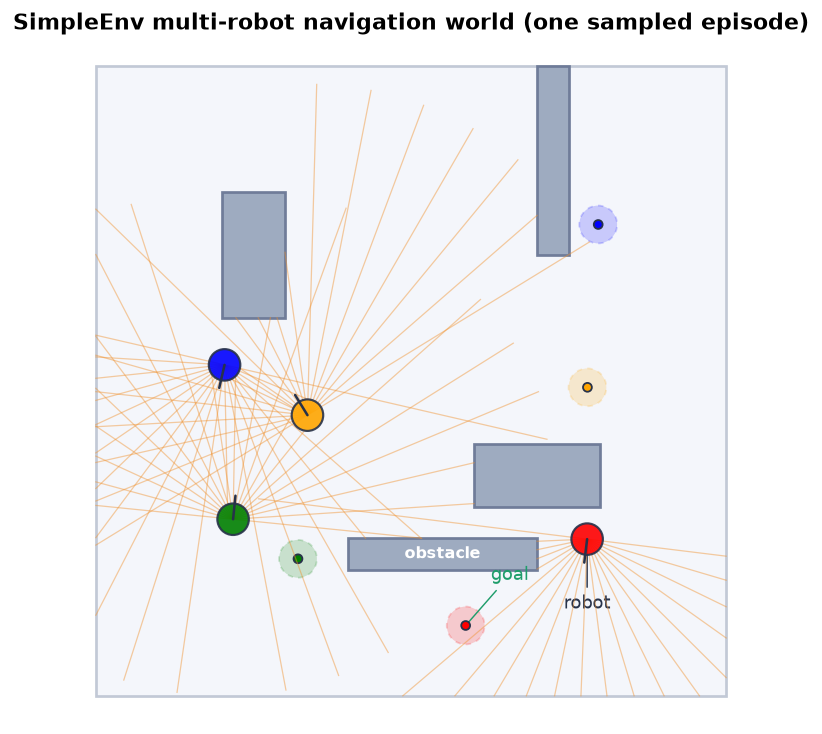
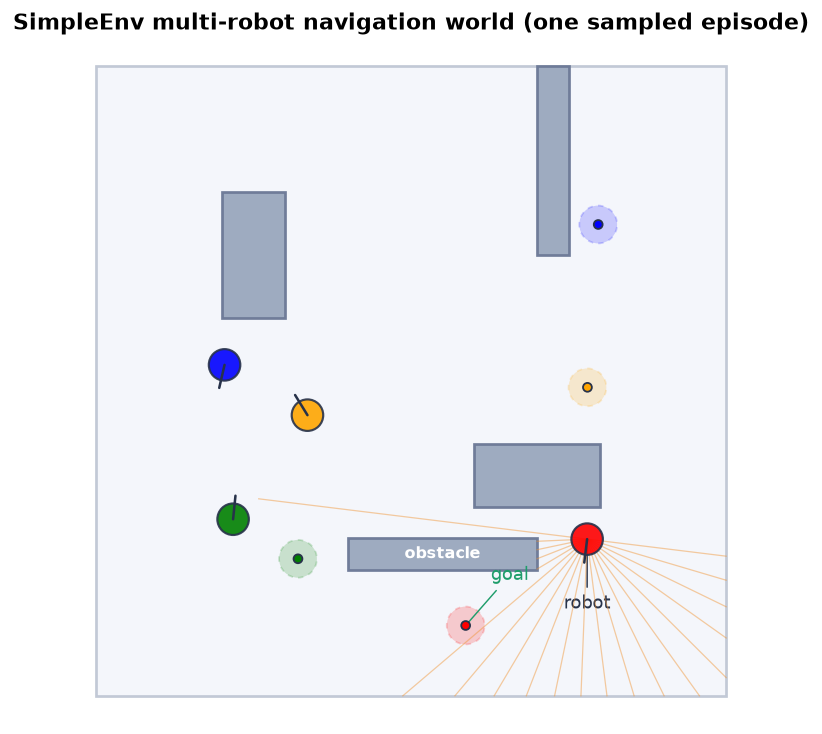
chore: draw the lidar fan for one robot only in figures and the GIF (#8)
With every robot fanned the scenes read as orange noise; one exemplar fan
(robot 0 — the one the environment figure labels) shows the sensor without
burying the trajectories. render_env and make_gif now match the live
animator, captions in README/main.tex updated, figures and demo.gif
regenerated (GIF also halves to 1.6 MB).

diff --git a/report/main.tex b/report/main.tex
@@ -171,10 +171,11 @@ explicit communication channel.
   \centering
   \includegraphics[width=0.8\linewidth]{environment.pdf}
   \caption{The \emph{SimpleEnv} world (one sampled episode, four active
-  robots). Each robot (coloured disc with a heading tick) casts a
-  $20$-beam lidar fan (orange) that terminates at the nearest obstacle,
-  wall or other robot; the matching-coloured dot with a dashed halo is
-  that robot's goal and its arrival tolerance.}
+  robots). Every robot (coloured disc with a heading tick) carries the same
+  $20$-beam lidar; the fan (orange) is drawn for one robot only for
+  readability, and terminates at the nearest obstacle, wall or other robot.
+  The matching-coloured dot with a dashed halo is each robot's goal and its
+  arrival tolerance.}
   \label{fig:env}
 \end{figure}
 

diff --git a/report/scripts/make_gif.py b/report/scripts/make_gif.py
@@ -158,9 +158,11 @@ def render_frame(fig, ax, cfg, meta, frames, k, episode, total):
         lidar_max_range=cfg.env.lidar_max_range,
     )
     for i, (x, y, theta, scan) in enumerate(frames[k]):
-        probe.x, probe.y, probe.theta = x, y, theta
-        probe.current_lidar_data_display = scan
-        viz.draw_lidar(ax, probe)
+        # ── One exemplar fan (robot 0) keeps the frame readable ──
+        if i == 0:
+            probe.x, probe.y, probe.theta = x, y, theta
+            probe.current_lidar_data_display = scan
+            viz.draw_lidar(ax, probe)
         viz.draw_robot(ax, x, y, theta, probe.radius, viz.COLORS[i])
 
     # ── HUD on the field itself ──

diff --git a/src/multiagent_navigation/viz.py b/src/multiagent_navigation/viz.py
@@ -243,7 +243,11 @@ def render_env(
     ax: Axes | None = None,
     show_lidar: bool = True,
 ) -> Axes:
-    """Draw the current scene: field, obstacles, goals and robots."""
+    """Draw the current scene: field, obstacles, goals and robots.
+
+    The lidar fan is drawn for robot 0 only — one exemplar keeps the scene
+    readable (every robot carries the same sensor).
+    """
     if ax is None:
         _, ax = plt.subplots(figsize=(6.4, 6.4))
 
@@ -266,7 +270,7 @@ def render_env(
             env.goal_reached_dist,
             color,
         )
-        if show_lidar:
+        if show_lidar and i == 0:
             draw_lidar(ax, env.robots[i])
         draw_robot(
             ax,

diff --git a/README.md b/README.md
@@ -15,8 +15,9 @@ navigate alone and then to share the world.
   <img src="docs/assets/demo.gif" alt="Trained policy: four robots navigating to their goals" width="560">
 </p>
 
-*The trained shared policy on unseen episodes: four robots (colored discs
-with lidar fans) heading to their matching-colored goals. The GIF is
+*The trained shared policy on unseen episodes: four robots (colored discs)
+heading to their matching-colored goals; the orange lidar fan is drawn for
+one robot for readability — every robot carries the same sensor. The GIF is
 rebuilt from the published checkpoint by `report/scripts/make_gif.py` —
 see [Reproduce the experiment](#reproduce-the-experiment).*
 